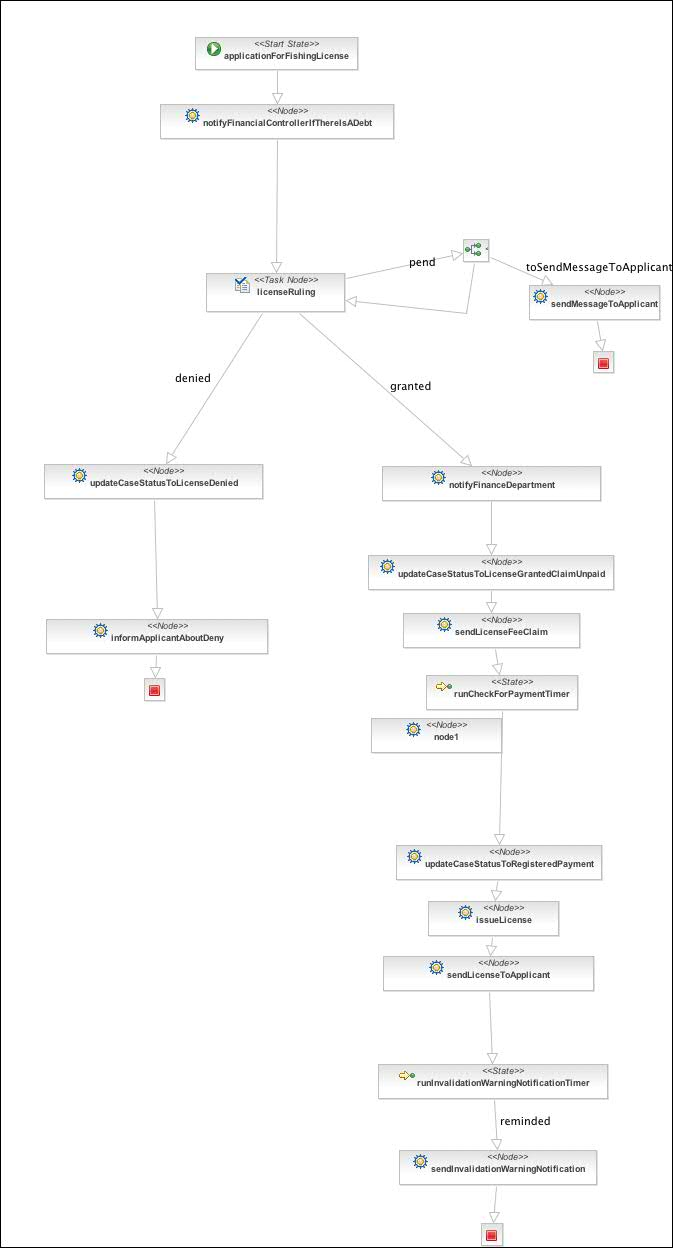
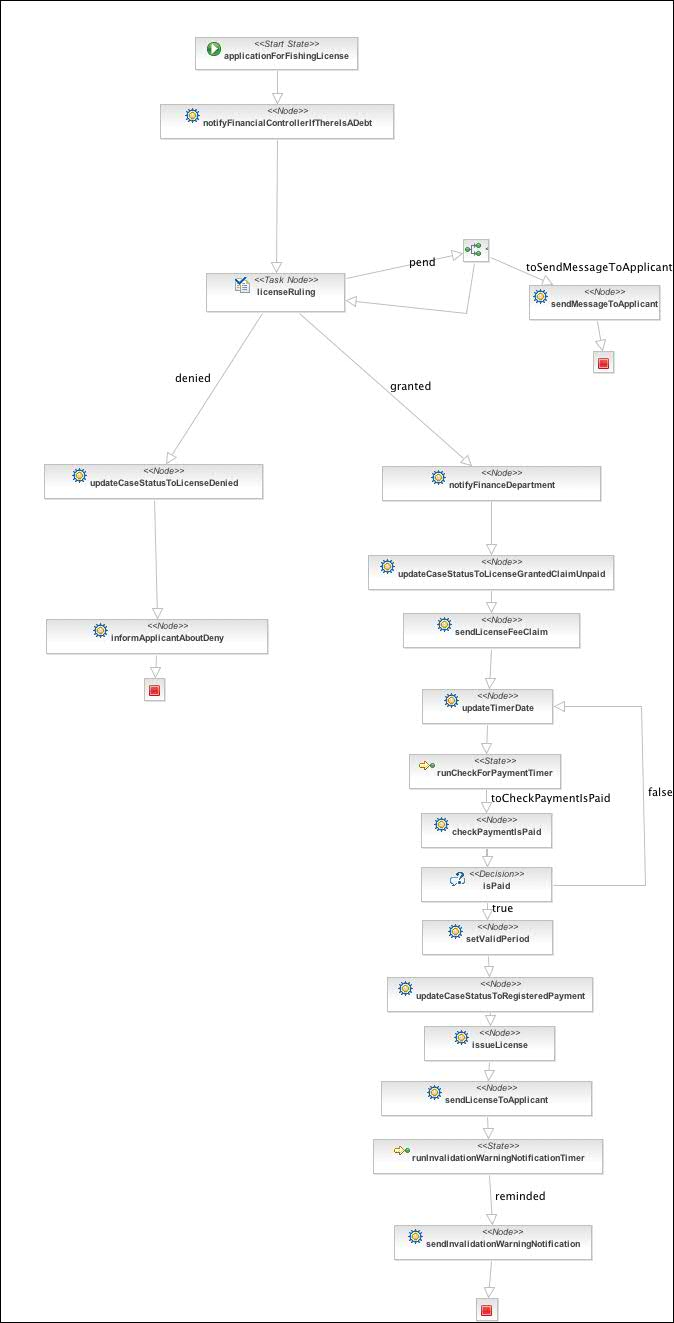
payment check timers added to fishing licenses processes

diff --git a/src/java/is/idega/idegaweb/egov/gumbo/licenses/FishingLicenseUser.java b/src/java/is/idega/idegaweb/egov/gumbo/licenses/FishingLicenseUser.java
@@ -28,7 +28,7 @@ import com.idega.util.text.Item;
 public class FishingLicenseUser extends DefaultSpringBean {
 	
 	@Autowired
-	@Qualifier(DOFWSClient.WEB_SERVICE)
+	@Qualifier(DOFWSClient.MOCK)
 	private DOFWSClient client;
 	
 	@Autowired
